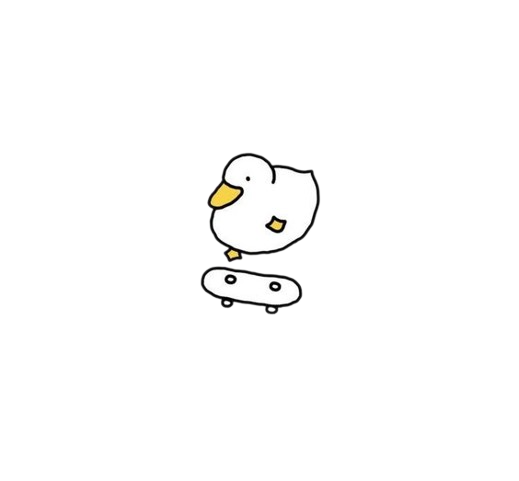
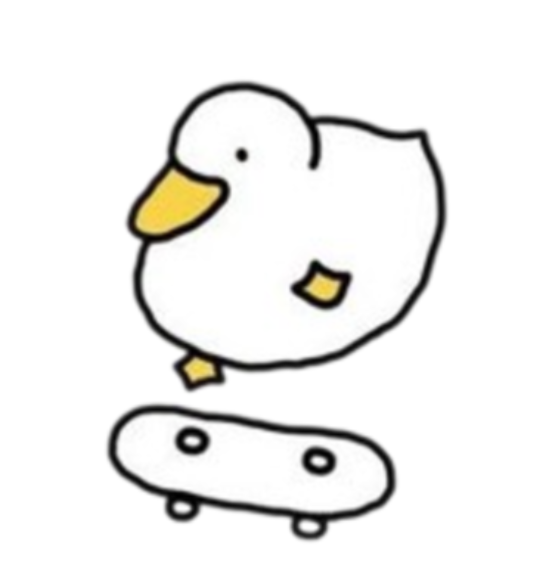
resize stickers

Changed region(s): [[0.185, 0.1247, 0.8324, 0.9667]]

diff --git a/vite/src/App.css b/vite/src/App.css
@@ -8,7 +8,7 @@
 
 #sticker:hover
 {
-  transform: scale(1.8);
+  transform: scale(1.5);
 }
 
 #home-menu
